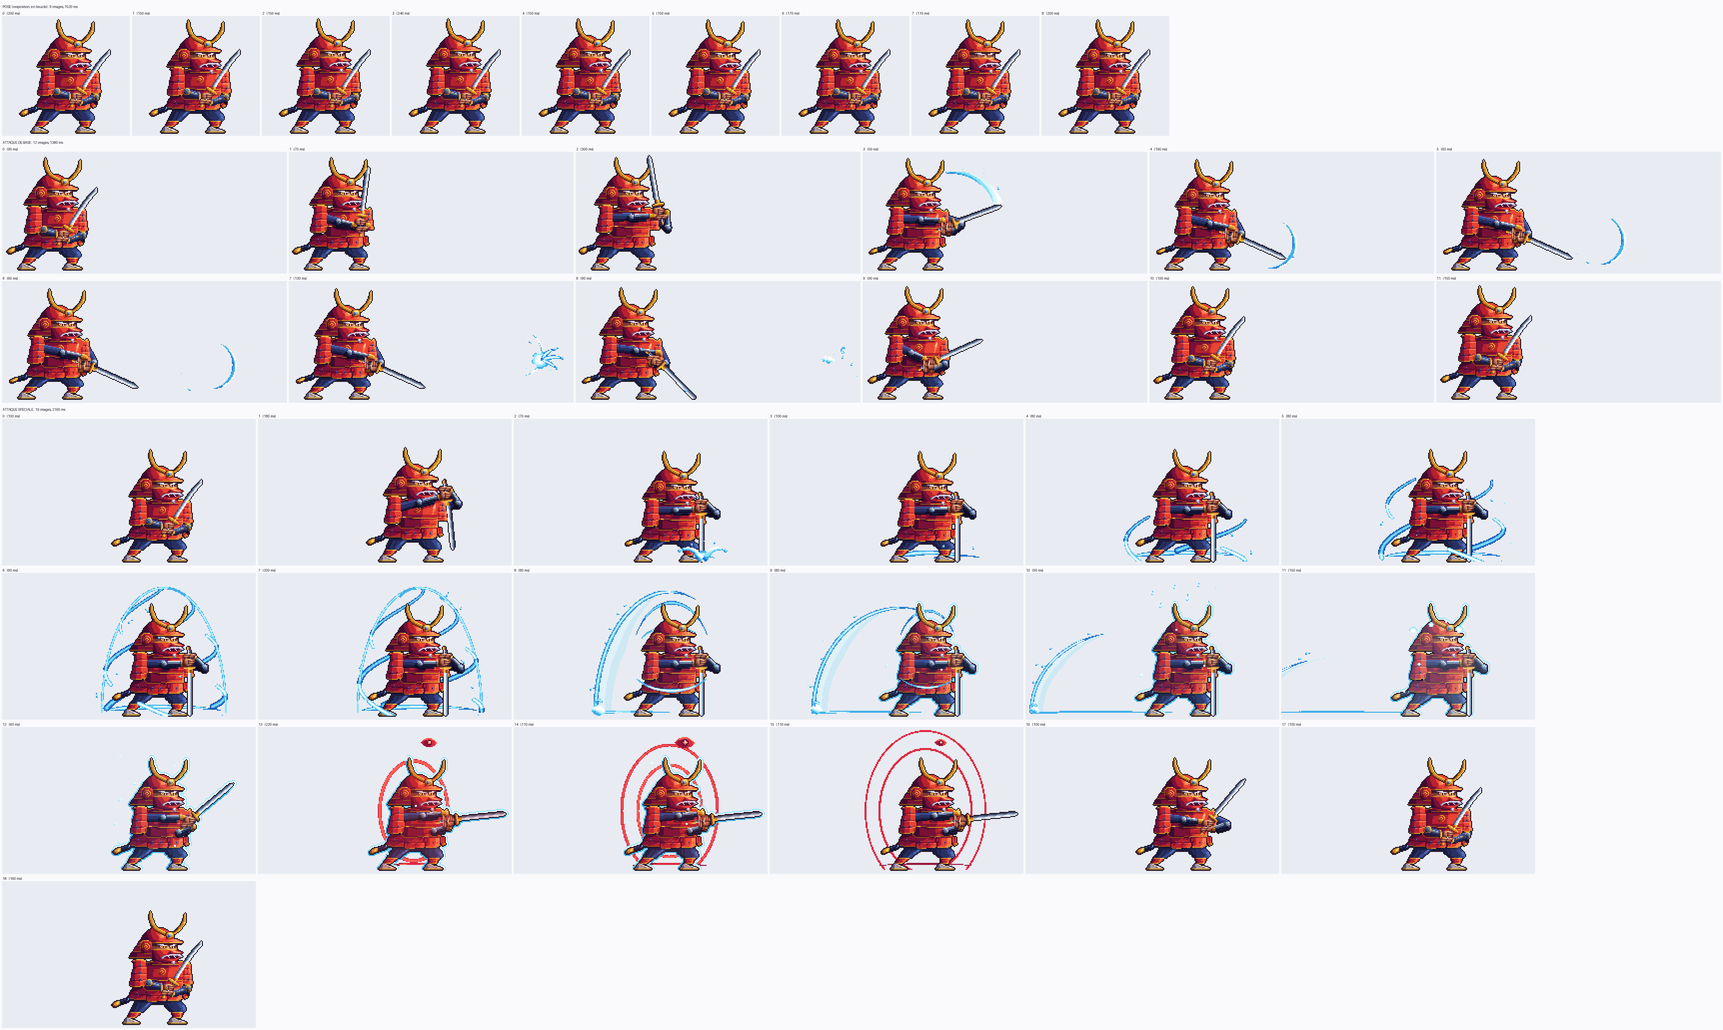
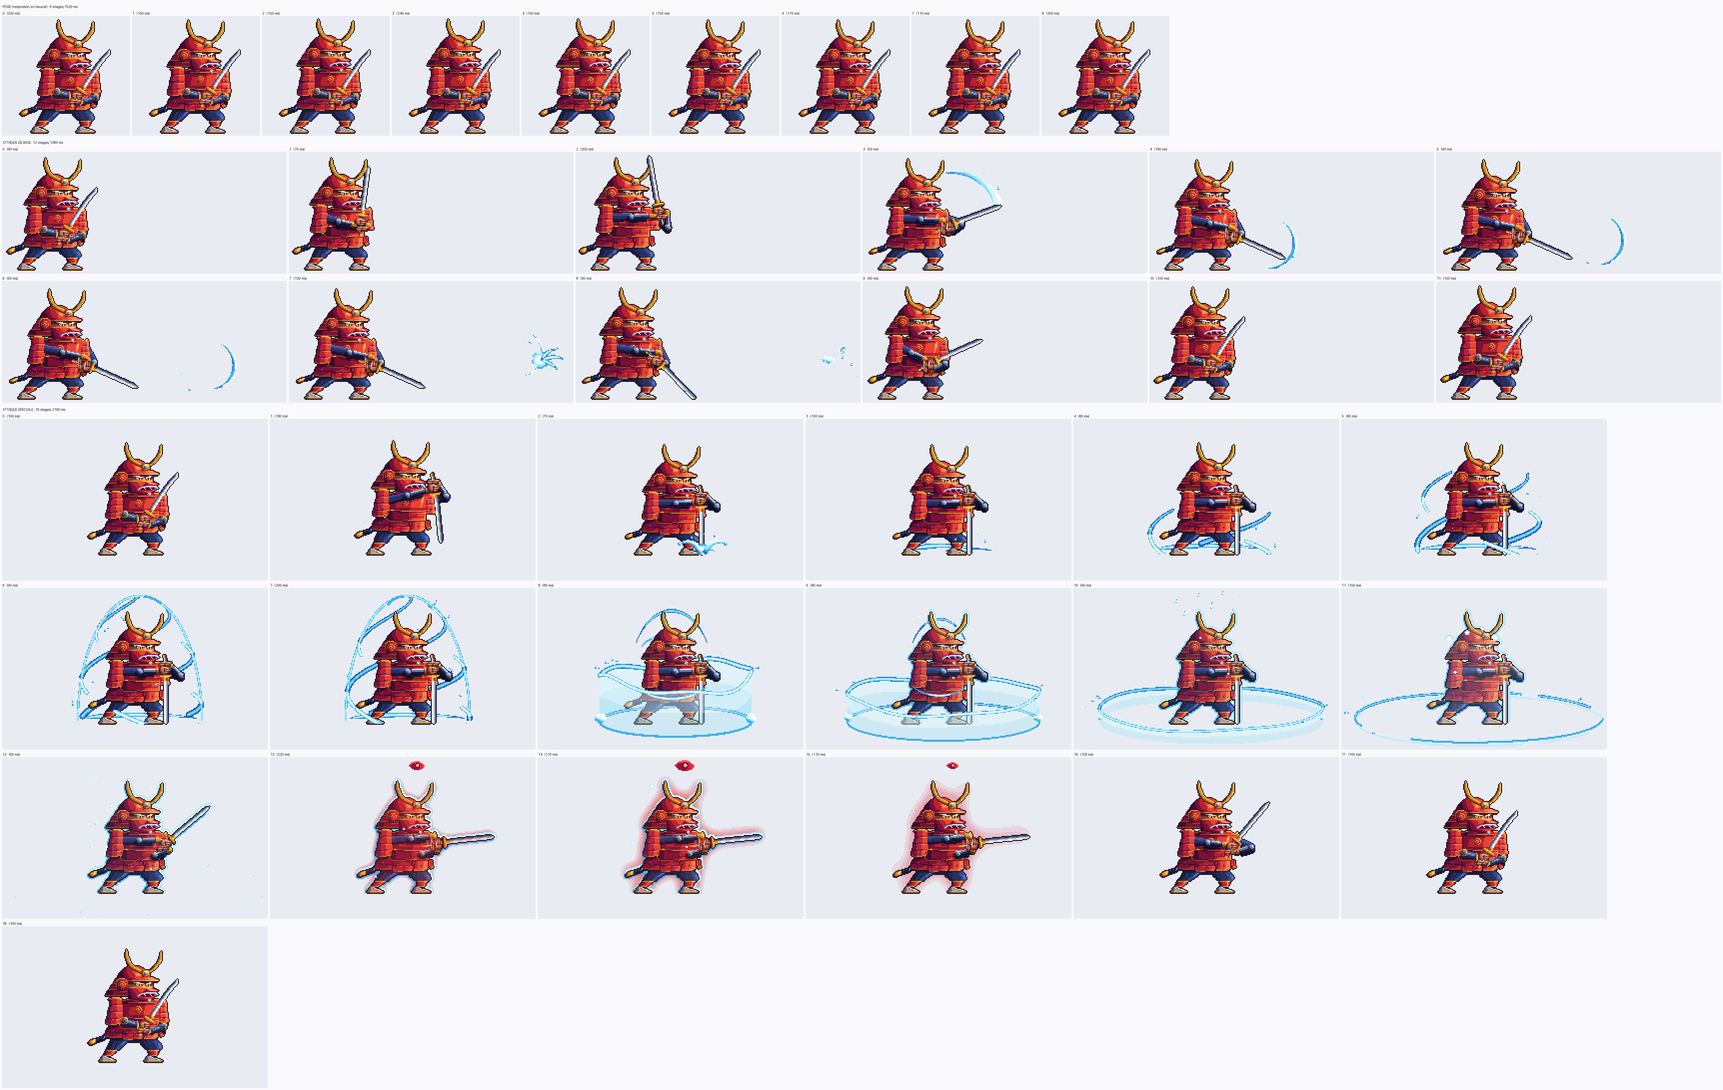
HD : spéciale de Zaroth en cercle (anneau d'eau autour de lui, lueur rouge de provocation)
Claude-Session: https://claude.ai/code/session_01StTiAZjvnzYLiVPjaUWZHe

diff --git a/refonte-graphique/pixel/hd/anim/zaroth/build.py b/refonte-graphique/pixel/hd/anim/zaroth/build.py
@@ -15,6 +15,8 @@
 #   - sous les bras, le dessin ne montre pas le bas de la cuirasse : il est complété à la main (DESSOUS, plus bas) ;
 #   - les effets d'eau ont la même petite palette qu'Ilian et Elyon (les autres héros d'eau), sans contour noir ;
 #   - à la fin, chaque image peut recevoir des retouches pixel par pixel (RETOUCHES, plus bas).
+#
+# Spéciale (sort d'équipe) : MOMENT DE LANCEMENT = IMAGE 8 (l'anneau d'eau part de lui, en cercle tout autour).
 import sys, os, math
 import numpy as np
 from PIL import Image, ImageDraw, ImageFilter
@@ -50,9 +52,16 @@ FXPAL = {
     'O': (222, 40, 64),     # rouge
     'P': (150, 20, 58),     # rouge sombre (ombre, tire vers le violet)
     'Q': (92, 14, 52),      # rouge très sombre
+    # la lueur rouge de la provocation (translucide : voir ALPHA), du plus fort au plus pâle
+    '1': (255, 96, 84),
+    '2': (255, 80, 76),
+    '3': (240, 60, 70),
+    '4': (230, 46, 66),
+    '5': (222, 40, 64),
+    '6': (222, 40, 64),
 }
 # opacité des lettres translucides (les autres sont pleines)
-ALPHA = {'S': 70, 'T': 120}
+ALPHA = {'S': 70, 'T': 120, '1': 200, '2': 160, '3': 120, '4': 85, '5': 55, '6': 28}
 # le reflet bleu de l'armure d'eau sur le héros (« tint » d'une image, en %)
 TINT = (110, 210, 250)
 TINT_RED = (255, 70, 60)
@@ -62,8 +71,9 @@ ALLPAL.update(FXPAL)
 # ---------------------------------------------------------------- la scène
 # Toile des animations : le point « sol » du héros est posé en SOL. La pose seule se recadre ensuite en 128 × 120
 # (le format du jeu, sol en (64, 116)). Grande toile : le sabre levé monte haut, le croissant d'eau de l'attaque file
-# loin à droite, la vague de la spéciale file à gauche (vers l'équipe).
-W, H = 440, 236
+# loin à droite, l'anneau d'eau de la spéciale s'étend tout autour de lui (sa moitié devant lui passe sous la ligne
+# du sol : la toile descend 16 pixels plus bas qu'avant, ce qui ne change rien à la pose ni à l'attaque).
+W, H = 440, 252
 SOL = (156, 220)
 OX, OY = SOL[0] - SRC['sol'][0], SOL[1] - SRC['sol'][1]   # grille du dessin -> toile
 GROUND = SOL[1]
@@ -751,9 +761,9 @@ def rig_frame(f):
 
 
 # ---------------------------------------------------------------- les effets d'eau : formes courbes (outils repris d'Ilian, mêmes tons)
-def put(cv, x, y, ch, keep=None):
+def put(cv, x, y, ch, keep=None, floor=None):
     x, y = int(x), int(y)
-    if 0 <= x < W and 0 <= y < H and y <= GROUND and (keep is None or cv[y, x] in keep):
+    if 0 <= x < W and 0 <= y < H and y <= (GROUND if floor is None else floor) and (keep is None or cv[y, x] in keep):
         cv[y, x] = ch
 
 
@@ -792,13 +802,13 @@ def ribbon(cv, c, rx, ry, a0, a1, wmax, head=0.7, tones='XYZV', tilt=0.0):
         put(cv, x, y, tones[min(m - 1, int(k * m))])
 
 
-def sprite(cv, rows, x, y, flipx=False):
+def sprite(cv, rows, x, y, flipx=False, floor=None):
     for j, r in enumerate(rows):
         if flipx:
             r = r[::-1]
         for i, ch in enumerate(r):
             if ch != '.':
-                put(cv, x + i, y + j, ch)
+                put(cv, x + i, y + j, ch, floor=floor)
 
 
 # les gouttes : une petite bille ronde éclairée en haut à droite, et sa traîne derrière elle (dans le sens contraire
@@ -806,7 +816,7 @@ def sprite(cv, rows, x, y, flipx=False):
 DROP_S = {1: ['Y'], 2: ['YX', 'VZ'], 3: ['.YX', 'ZYX', 'VZ.'], 4: ['.YX.', 'ZYYX', 'VZYZ', '.VZ.']}
 
 
-def drop(cv, x, y, size=2, v=(0.0, 0.0)):
+def drop(cv, x, y, size=2, v=(0.0, 0.0), floor=None):
     """une goutte de taille 1 à 4 en (x, y) ; v = sa vitesse (la traîne part à l'opposé, 1 ou 2 pixels)"""
     rows = DROP_S[size]
     x0, y0 = int(round(x - len(rows[0]) / 2)), int(round(y - len(rows) / 2))
@@ -815,8 +825,8 @@ def drop(cv, x, y, size=2, v=(0.0, 0.0)):
         ux, uy = -v[0] / sp, -v[1] / sp
         for k in range(1, 2 + (size >= 3)):
             cx, cy = x + ux * (len(rows) / 2 + k - 0.5), y + uy * (len(rows) / 2 + k - 0.5)
-            put(cv, math.floor(cx), math.floor(cy), 'Z' if k == 1 else 'V')
-    sprite(cv, rows, x0, y0)
+            put(cv, math.floor(cx), math.floor(cy), 'Z' if k == 1 else 'V', floor=floor)
+    sprite(cv, rows, x0, y0, floor=floor)
 
 
 def curl(cv, c, r0, a0, turn=300, w=2.4, tones='XYZV', cw=False):
@@ -902,7 +912,7 @@ def bezier(p0, p1, p2, p3, n):
     return out
 
 
-def stroke(cv, pts, widths, tones):
+def stroke(cv, pts, widths, tones, floor=None):
     """peint un ruban le long de points, avec une épaisseur par point (coeur clair -> bord sombre)"""
     best = {}
     for (px, py), wv in zip(pts, widths):
@@ -918,7 +928,7 @@ def stroke(cv, pts, widths, tones):
                         best[(x, y)] = k
     m = len(tones)
     for (x, y), k in best.items():
-        put(cv, x, y, tones[min(m - 1, int(k * m))])
+        put(cv, x, y, tones[min(m - 1, int(k * m))], floor=floor)
 
 
 def crescent(cv, c, r, facing, span=110, w=3.0, tones='WXY'):
@@ -1200,15 +1210,20 @@ ATTAQUE = [
 
 # ---------------------------------------------------------------- 3) l'attaque spéciale : « Rempart des marées » (sort d'équipe)
 # Ce que fait le sort en combat : +30 % de défense à toute l'équipe (5 s), il se soigne (15 % de sa vie) et il
-# provoque (les ennemis le frappent, lui, pendant 3 s). L'équipe est DERRIÈRE lui, à gauche de l'image.
+# provoque (les ennemis le frappent, lui, pendant 3 s). L'équipe est en losange autour de lui (devant, derrière,
+# au-dessus, en dessous) : le sort ne vise aucune direction, il s'étend EN CERCLE tout autour de lui.
 # Le protecteur plante son sabre devant lui, d'un coup sec (l'eau jaillit du sol autour de la lame) ; les deux mains sur
 # la poignée, immobile, il laisse l'eau monter en spirale autour de lui : un dôme d'eau qui tourne et l'enveloppe.
-# Arrêt sur le dôme plein. Puis le dôme se gonfle vers l'arrière et part en une vague-voile (bord lumineux, intérieur
-# à peine teinté) qui file vers la gauche, vers l'équipe ; l'eau qui reste se plaque sur lui en une armure d'eau qui
-# scintille (le héros prend un reflet bleu, un liseré d'eau l'entoure, des éclats brillent sur ses plaques). Un peu
+# Arrêt sur le dôme plein (image 7, 200 ms, le temps fort). Puis le dôme s'abaisse et s'élargit en un anneau d'eau
+# protecteur posé au sol, tout autour de lui (ellipse aplatie : derrière lui et devant ses jambes, des deux côtés),
+# qui s'éloigne dans toutes les directions en s'abaissant, se défait en arcs et s'éteint en quelques éclats. L'eau qui
+# reste se plaque sur lui en une armure d'eau qui scintille (reflet bleu, liseré d'eau, éclats sur les plaques). Un peu
 # d'eau claire tombe sur lui et le soigne (il s'éclaire un instant, de petites bulles montent). Enfin il arrache le
-# sabre et le pointe vers l'ennemi, en défi (arrêt) : une onde rouge pulse autour de lui, trois fois, et une marque
-# inventée (un œil en amande) brille au-dessus de son casque. Il revient en garde. Rien ne frappe l'ennemi.
+# sabre et le pointe vers l'ennemi, en défi (arrêt) : une lueur rouge douce pulse autour de son corps (elle gonfle puis
+# s'éteint, sans aucun trait) et une marque inventée (un œil en amande) bat au-dessus de son casque. Il revient en
+# garde. Rien ne frappe l'ennemi.
+# MOMENT DE LANCEMENT (là où le jeu joue les effets reçus sur chaque allié) : IMAGE 8 (numérotée depuis 0, comme sur la
+# planche), juste après l'arrêt sur le dôme plein, quand l'anneau d'eau part de lui ; la provocation tient à l'image 13.
 DOME_C = (SOL[0] + 6, GROUND)          # le pied du dôme (toile), centré sur lui et son sabre planté
 DOME_RX, DOME_H = 62, 124
 
@@ -1320,7 +1335,7 @@ def fx_plant(k):
     return f
 
 
-# ---------------------------------------------------------------- la vague-voile qui part vers l'équipe (à gauche)
+# ---------------------------------------------------------------- l'anneau d'eau qui s'élargit tout autour de lui
 def dilate(m, r=1):
     """grossit une forme de r pixels (voisins en croix puis en carré, à tour de rôle : un contour bien rond)"""
     out = m.copy()
@@ -1339,56 +1354,94 @@ def dilate(m, r=1):
     return out
 
 
-# la vague : la moitié gauche du dôme, qui grandit, s'abaisse et file vers la gauche. Pour chaque image :
-# (recul du centre, demi-largeur, hauteur, épaisseur du bord, épaisseur du voile)
-VAGUE = [(-6, 74, 120, 4.6, 16), (-30, 88, 104, 4.2, 14), (-62, 94, 80, 3.4, 12), (-96, 96, 56, 2.6, 9)]
+# l'anneau : le dôme s'abaisse et s'élargit en un mur d'eau circulaire posé au sol, tout autour de lui (une ellipse
+# aplatie : la moitié derrière lui passe derrière son corps, la moitié devant lui passe devant ses jambes, en voile
+# translucide). Il s'éloigne de lui dans TOUTES les directions à la fois (l'équipe peut être devant, derrière, au-dessus
+# ou en dessous de lui), en s'abaissant, puis se défait en arcs et s'éteint en quelques éclats. Pour chaque image :
+# (demi-largeur, demi-profondeur au sol, hauteur du mur, épaisseur de la crête)
+ANNEAU = [(76, 15, 46, 4.4), (96, 19, 27, 3.8), (112, 22, 13, 3.0), (124, 25, 4, 2.2)]
+RING_C = (DOME_C[0], GROUND - 1)       # le centre de l'anneau : à ses pieds
 
 
-def wave(k):
-    """la vague-voile : un bord d'eau lumineux (le bord du dôme), en quart d'ellipse du sol jusqu'au-dessus de lui, qui
-    se recourbe vers l'avant en haut ; derrière le bord, un voile d'eau à peine teinté (pixels translucides S, T) ;
-    au pied, un rouleau d'écume qui avance au ras du sol et laisse une traînée"""
+def ring_out(k):
+    """k = 0..3 : l'anneau d'eau qui s'élargit et s'abaisse ; k = 4 : il s'est éteint, il reste quelques éclats"""
     def f(cv, back, front, ctx):
-        dcx, rx, h, w, band = VAGUE[k]
-        cx, gy = DOME_C[0] + dcx, GROUND
-        # le voile : entre le bord et une ellipse plus petite, du côté gauche seulement (rien sur le héros)
-        # (en coordonnées de l'ellipse : rho = 1 sur le bord, th = 90° au sommet, 180° au sol ; le voile s'amincit
-        # vers le sommet et disparaît avant lui : pas de bout coupé net)
+        cx, cy = RING_C
+        if k == 4:
+            rng = np.random.RandomState(77)
+            for j in range(11):
+                a = rng.uniform(0, 2 * math.pi)
+                x, y = cx + 130 * math.cos(a), cy + 26 * math.sin(a) - rng.uniform(0, 5)
+                tgt = front if math.sin(a) > 0 else back
+                if j % 3 == 0:
+                    sprite(tgt, ['.X.', 'XWY', '.Y.'], int(x) - 1, int(y) - 1, floor=H)
+                else:
+                    put(tgt, x, y, 'X' if j % 2 else 'Y', floor=H)
+            return
+        rx, ry, hw, w = ANNEAU[k]
+
+        def crest_h(th):                      # la crête ondule doucement (jamais une ligne régulière)
+            return hw * (1 + 0.10 * math.sin(2 * th + 0.7 + k) + 0.06 * math.sin(5 * th + 2.1))
+
+        def broken(th):                       # en s'éteignant, l'anneau se défait en arcs
+            return k == 3 and (math.sin(2 * th + 0.4) + 0.5 * math.sin(5 * th + 1.3)) > 0.75
+
+        # le mur : un voile d'eau à peine teinté (pixels translucides), plus clair vers la crête
         yy, xx = np.mgrid[0:H, 0:W]
-        u, v = (xx + 0.5 - cx) / rx, (gy - 3 - yy - 0.5) / h
-        rho = np.hypot(u, v)
-        th = np.degrees(np.arctan2(v, u))
-        taper = np.clip((th - 96) / 44, 0, 1)
-        veil = (rho <= 1.0) & (rho > 1 - band / rx * taper) & (yy <= GROUND - 1)
-        inner = veil & (rho < 1 - 0.55 * band / rx * taper)          # contre la paroi intérieure : un peu plus clair
-        back[veil & (back == '.')] = 'T'
-        back[inner & (back == 'T')] = 'S'
-        # le bord : du sol (à gauche) jusqu'au sommet, puis il se recourbe un peu vers l'avant (vers lui)
-        pts, wd = [], []
-        n = 160
-        a_end = (66, 72, 100, 112)[k]                          # en partant, le haut de la vague se défait
-        for i in range(n + 1):
-            a = math.radians(180 - (180 - a_end) * i / n)
-            pts.append((cx + rx * math.cos(a), gy - 3 - h * math.sin(a)))
-            s = i / n
-            wd.append(w * min(1.0, (n - i) / 50.0) ** 0.8 * (1.0 - 0.25 * s) + 0.3)
-        stroke(back, pts, wd, 'XYZV')
-        # le haut du bord, tourné vers la lumière, s'éclaire (un seul reflet blanc, long et courbe)
-        hl = [p for i, p in enumerate(pts) if 0.45 < i / n < 0.8]
-        stroke(back, hl, [1.2] * len(hl), 'W')
-        # au pied : le rouleau d'écume qui file vers la gauche, et la traînée d'eau au sol jusqu'à lui
-        fx_ = cx - rx
-        foam(front, (fx_ + 3, gy - 4), 5.0 - 0.7 * k, hollow=0.15 * k, seed=31 + k)
-        curl(front, (fx_ + 2, gy - 12 + 2 * k), 3.6 - 0.4 * k, 20, turn=250, w=2.4, tones='XYZ')
-        ribbon(back, ((fx_ + DOME_C[0]) / 2, gy - 1), (DOME_C[0] - fx_) / 2, 2, 180, 0, 2.6 - 0.3 * k,
-               head=0.25, tones='XYZ')
-        # des gouttes arrachées à la crête, qui volent vers la gauche
-        rng = np.random.RandomState(50 + k)
-        for j in range(5):
-            a = math.radians(rng.uniform(110, 170))
-            r = 1.0 + rng.uniform(0.04, 0.14)
-            drop(back, cx + rx * r * math.cos(a), gy - 3 - h * r * math.sin(a), int(rng.choice([1, 2, 2, 3])),
-                 v=(-1.5, 0.3))
+        u = (xx + 0.5 - cx) / rx
+        inside = np.abs(u) < 1
+        sq = np.sqrt(np.clip(1 - u * u, 0, 1))
+        th_b = np.arctan2(sq, u)                                   # angle (0 à droite, 90° au fond)
+        hcol = hw * (1 + 0.10 * np.sin(2 * th_b + 0.7 + k) + 0.06 * np.sin(5 * th_b + 2.1))
+        for sgn, tgt in ((-1, back), (1, front)):
+            yg = cy + sgn * ry * sq                                # le pied du mur au sol
+            hc = hcol if sgn < 0 else hw * (1 + 0.10 * np.sin(-2 * th_b + 0.7 + k) + 0.06 * np.sin(-5 * th_b + 2.1))
+            wall = inside & (yy <= yg) & (yy >= yg - hc)
+            if k == 3:
+                wall &= ~((np.sin(2 * sgn * th_b + 0.4) + 0.5 * np.sin(5 * sgn * th_b + 1.3)) > 0.75)
+            top = wall & (yy < yg - hc * 0.55)
+            tgt[wall & (tgt == '.')] = 'S'
+            tgt[top & (tgt == 'S')] = 'T'
+        # la crête et le pied du mur, en morceaux (coupés là où l'anneau se défait)
+        n = int(2 * math.pi * rx * 1.6)
+        # (quand le mur est bas, la crête presque à plat perd son ton le plus pâle : sinon elle paraît en pointillés)
+        tb, tf = ('XYZV', 'WXYZ') if k <= 1 else ('YZV', 'XYZ')
+        for half, tgt, tones, wm in ((0, back, tb, 1.0), (1, front, tf, 0.75)):
+            crest, base = [], []
+            for i in range(n + 1):
+                th = math.pi * i / n + half * math.pi               # 0..180° : derrière ; 180..360° : devant
+                ok = not broken(th)
+                x = cx + rx * math.cos(th)
+                yg = cy - ry * math.sin(th)
+                if ok:
+                    crest.append((x, yg - crest_h(th)))
+                    base.append((x, yg))
+                if (not ok or i == n) and len(crest) > 2:
+                    m_ = len(crest)
+                    wd = [w * wm * min(1.0, (q + 1) / 6, (m_ - q) / 6) + 0.4 for q in range(m_)]
+                    stroke(tgt, crest, wd, tones, floor=H)
+                    if k <= 1:            # le pied du mur (quand le mur est bas, la crête suffit : pas de double trait)
+                        stroke(tgt, base, [x_ * 0.6 for x_ in wd], 'YZV' if half == 0 else 'XYZ', floor=H)
+                    # le reflet blanc : sur la crête du fond, du côté de la lumière (en haut à droite)
+                    if half == 0 and k <= 1:
+                        hl = [p for p in crest if p[0] > cx + rx * 0.25]
+                        if len(hl) > 2:
+                            stroke(tgt, hl, [1.2] * len(hl), 'W', floor=H)
+                if not ok:
+                    crest, base = [], []
+        # aux deux bouts, là où l'on voit le mur par la tranche : un bouillon d'écume
+        if k <= 2:
+            for sx in (-1, 1):
+                foam(front, (cx + sx * (rx - 1), cy - 3), 4.6 - 1.0 * k, hollow=0.2 * k, seed=40 + k + sx)
+        # des gouttes arrachées à la crête, projetées vers l'extérieur, tout autour
+        rng = np.random.RandomState(90 + k)
+        for j in range(12 - 2 * k):
+            th = rng.uniform(0, 2 * math.pi)
+            r = 1.0 + rng.uniform(0.03, 0.12)
+            x = cx + rx * r * math.cos(th)
+            y = cy - ry * r * math.sin(th) - crest_h(th) - rng.uniform(1, 6)
+            tgt = back if math.sin(th) > 0 else front
+            drop(tgt, x, y, int(rng.choice([1, 2, 2, 3])), v=(1.6 * math.cos(th), -0.6), floor=H)
     return f
 
 
@@ -1480,9 +1533,10 @@ def heal(k):
     return f
 
 
-# ---------------------------------------------------------------- la provocation : l'onde rouge et la marque
-# L'onde : un liseré rouge qui épouse sa silhouette et s'en écarte en pâlissant (trois pulsations), et un anneau rouge
-# au sol, à ses pieds, qui s'élargit. La marque : un œil en amande (deux arcs qui se rejoignent en pointe, une pupille
+# ---------------------------------------------------------------- la provocation : la lueur rouge et la marque
+# La lueur : un halo rouge, doux et translucide, qui épouse sa silhouette sans trait (un dégradé qui s'efface vers
+# l'extérieur, plus large vers le haut, comme une chaleur) ; il gonfle puis s'éteint (trois pulsations : serré, large,
+# pâle). Aucune ligne, aucun anneau. La marque : un œil en amande (deux arcs qui se rejoignent en pointe, une pupille
 # ronde), signe inventé, au-dessus du casque ; il bat comme un cœur (grand, plus grand, petit).
 MARK = {
     0: ['.....NNNNNNM.....',
@@ -1513,31 +1567,33 @@ MARK = {
         '..PPPPQPOOO..',
         '....PPPPO....'],
 }
-# les ondes : des anneaux rouges autour de lui (derrière lui : on les voit autour de sa silhouette), qui s'élargissent
-# et s'assombrissent ; (demi-largeur, demi-hauteur, épaisseur, tons du coeur vers le bord)
-ONDES = {0: [(34, 50, 3.6, 'NNO')],
-         1: [(48, 66, 3.0, 'NOO'), (32, 46, 3.0, 'NNO')],
-         2: [(60, 80, 1.8, 'O'), (46, 62, 2.2, 'NO')]}
+# la lueur : (flou du halo, opacité au plus fort, montée vers le haut en pixels) pour chaque pulsation
+LUEUR = {0: (3.0, 210, 1), 1: (5.0, 200, 2), 2: (6.5, 95, 3)}
+# les tons de la lueur, du plus fort au plus pâle (lettres translucides, voir ALPHA)
+GLOW_TONES = '123456'
 
 
-def ring(cv, c, rx, ry, w, tones):
-    """un anneau en ellipse d'épaisseur régulière (coeur clair, bords sombres)"""
-    n = int(2 * math.pi * max(rx, ry) * 1.5)
-    pts = [(c[0] + rx * math.cos(2 * math.pi * i / n), c[1] - ry * math.sin(2 * math.pi * i / n)) for i in range(n + 1)]
-    stroke(cv, pts, [w] * len(pts), tones)
+def glow(cv, back, k):
+    """le halo rouge autour de la silhouette (derrière le héros : on ne le voit qu'autour de lui)"""
+    sig, amax, rise = LUEUR[k]
+    m = cv != '.'
+    src = np.roll(m, -rise, 0)                       # un halo qui monte un peu (la chaleur)
+    B = np.asarray(Image.fromarray((src * 255).astype(np.uint8)).filter(ImageFilter.GaussianBlur(sig)), float) / 255
+    a = np.clip(B * 2.4, 0, 1) * amax
+    yy = np.arange(H)[:, None]
+    a = np.where(yy <= GROUND + 1, a, 0)            # posé au sol : rien sous ses pieds
+    cut = [ALPHA[c] for c in GLOW_TONES]
+    for c, lo in zip(GLOW_TONES, cut):
+        sel = (a >= lo * 0.85) & (back == '.')
+        back[sel] = c
+    return back
 
 
 def provoke(k):
-    """k = 0 : première pulsation (anneau serré, marque) ; 1 : elle s'écarte, une deuxième naît, la marque grossit ;
-    2 : elles s'effacent, la marque rapetisse"""
+    """k = 0 : première pulsation (halo serré, marque) ; 1 : le halo gonfle, la marque grossit ;
+    2 : il pâlit et s'éteint, la marque rapetisse"""
     def f(cv, back, front, ctx):
-        cx = DOME_C[0] - 6
-        for (rx, ry, w, tones) in ONDES[k]:
-            ring(back, (cx, GROUND - 58), rx, ry, w, tones)
-        # l'anneau au sol, à ses pieds
-        rx = [30, 44, 58][k]
-        ribbon(back, (cx, GROUND - 1), rx, 4, 15, 165, [3.0, 2.6, 1.8][k], head=0.5, tones='NOP')
-        ribbon(front, (cx, GROUND), rx, 4, 195, 345, [3.4, 2.8, 2.0][k], head=0.5, tones='MNO')
+        glow(cv, back, k)
         # la marque, au-dessus du casque (elle suit la tête)
         bx, by = ctx.body.follow(60)
         hdx, hdy = ctx.f.get('head', (0, 0))
@@ -1576,13 +1632,14 @@ SPECIALE = [
     planted(fx_list=[dome(0.62, 50)], ms=80),
     planted(fx_list=[dome(1.0, 80)], ms=90),
     planted(fx_list=[dome(1.0, 112)], ms=200),
-    # le dôme part en vague vers la gauche ; ce qui reste se resserre sur lui
-    planted(fx_list=[condense(0), wave(0)], tint=4, ms=80),
-    planted(fx_list=[condense(1), wave(1), armor(0)], tint=8, ms=80),
-    planted(fx_list=[wave(2), armor(1), heal(0)], tint=8, ms=90),
-    planted(fx_list=[wave(3), armor(2), heal(1)], tint=8, flash=14, ms=150),
+    # LANCEMENT (image 8) : le dôme s'abaisse et s'élargit en anneau d'eau tout autour de lui, qui s'éloigne dans toutes
+    # les directions et s'éteint ; ce qui reste se resserre sur lui (son armure d'eau)
+    planted(fx_list=[condense(0), ring_out(0)], tint=4, ms=80),
+    planted(fx_list=[condense(1), ring_out(1), armor(0)], tint=8, ms=80),
+    planted(fx_list=[ring_out(2), armor(1), heal(0)], tint=8, ms=90),
+    planted(fx_list=[ring_out(3), armor(2), heal(1)], tint=8, flash=14, ms=150),
     # il arrache le sabre et le pointe vers l'ennemi : le défi (l'onde rouge pulse, la marque bat)
-    dict(O=(102, 62), ang=40, crouch=1, lean=1, bf=1, fx_list=[armor(3), heal(2)], tint=6, ms=60),
+    dict(O=(102, 62), ang=40, crouch=1, lean=1, bf=1, fx_list=[ring_out(4), armor(3), heal(2)], tint=6, ms=60),
     defi(fx_list=[provoke(0), armor(4, glint=False)], tint=('rouge', 18), ms=220),
     defi(fx_list=[provoke(1), armor(0, glint=False)], tint=('rouge', 8), ms=110),
     defi(fx_list=[provoke(2)], ms=110),
@@ -1664,7 +1721,7 @@ def write_outputs(anims):
     os.makedirs(OUT, exist_ok=True)
     boxes = {'pose': GAME_BOX}
     # la case de l'attaque est celle des animations validées (on voit la portée du croissant, jusqu'à l'ennemi) ;
-    # la spéciale reprend cette case et l'agrandit vers la gauche (la vague qui part vers l'équipe)
+    # la spéciale reprend cette case et l'agrandit (l'anneau d'eau qui s'étend tout autour de lui)
     att = ATT_BOX
     sp = bbox(anims['speciale'], 6)
     bb = (min(att[0], sp[0]), min(att[1], sp[1]), max(att[2], sp[2]), max(att[3], sp[3]))
